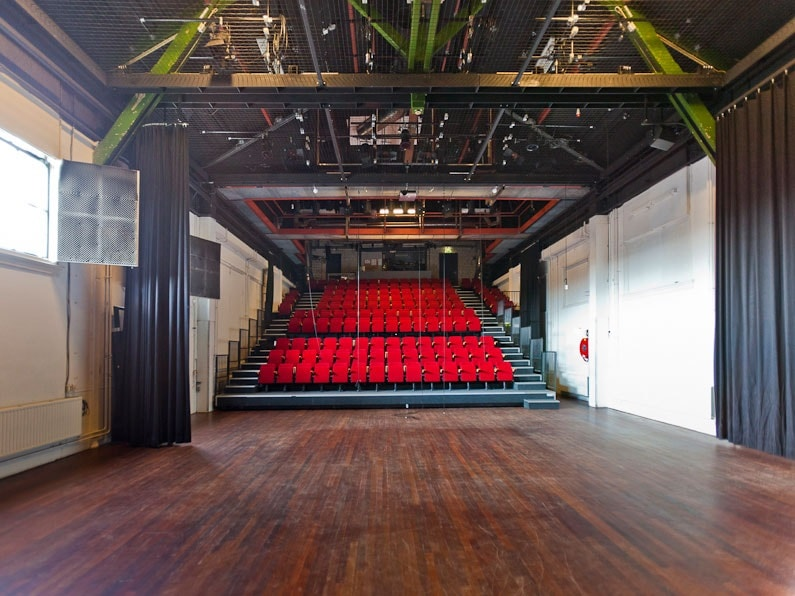
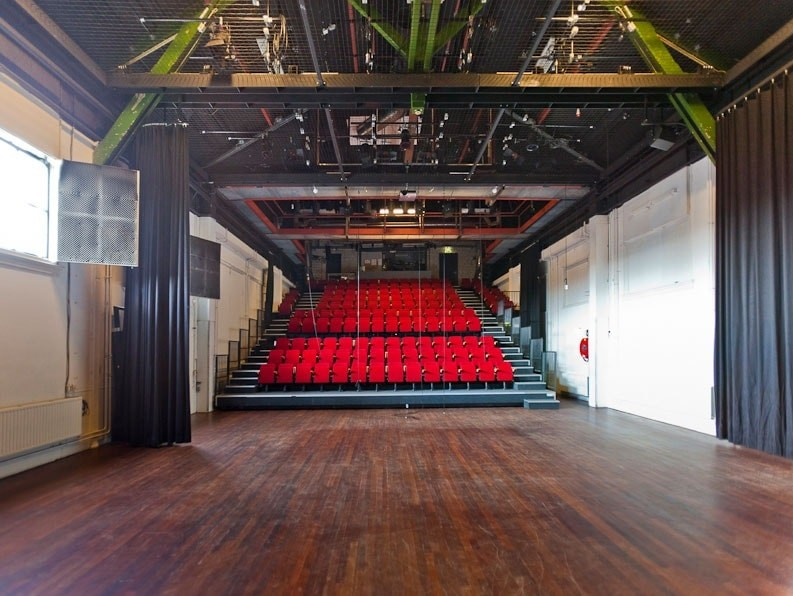
updated transport info and impages sizes

diff --git a/2023/travel-stay.html b/2023/travel-stay.html
@@ -20,8 +20,11 @@
 	<section class="projects-section bg-black" id="projects">
 		<div class="container px-4 px-lg-5" id="p1">
 	<script>
+
+		paragraph('p1', '', 'If you have any questions regarding your travel or stay, please contact Emma Rasing via <a href="mailto:er@creativecodingutrecht.nl">er@creativecodingutrecht.nl</a>');
+
 		// add a paragraph with arguments: section-id, header, text
-		paragraphImageRight('p1', 'Getting Here',
+		paragraphImageLeft('p1', 'Getting Here',
 		`We recommend all visitors (especially from within Europe) to travel by train as much as possible to reduce your environmental impact.
 		<br><br>
 		Utrecht is well connected by train to all of the major cities and airports in the Netherlands like Schiphol Airport (30min), Eindhoven Airport (1h30), Amsterdam (30min), Rotterdam (40min) and The Hague (40min).
@@ -30,14 +33,44 @@
 		<br><br>
 		From Utrecht it is also possible to take the international trains such as the ICE train towards Germany, Belgium, Switzerland and Austria`, `assets/img/utrecht-station.jpg`);
 
-		paragraphImageLeft('p1', 'Getting Around During the Conference', `All the locations of the festival are located within a walking distance of about 40 minutes.
+		paragraphImageRight('p1', 'Getting Around During the Conference', `All the locations of the festival are located within a walking distance of about 40 minutes.
 		<br><br>
 		It is also possible to get around by bus, tram or train between the locations. We recommend using the <a href="https://9292.nl/">9292 App</a> to plan any travel with public transport with Utrecht.
 		<br><br>
 		In the case the weather is nice we of course recommend renting a bike and cycling through the city.
 		<br><br>
+		(Photo © ANP)`, `assets/img/fiets.jpg`);
+
+		paragraphImageLeft('p1', 'Public Transport', `
+		You can pay for public transport in 2 different ways:
+		<br><br>
+		- By using your contactless debit card, credit card, or phone. More information about this system can be found on the website of OVpay. <a href="https://ovpay.nl/en" target="blank">https://ovpay.nl/en</a>
+		<br><br>
+		- By using an OV-chipkaart. More information about OV-chipkaart can be found on their website <a href="https://www.ov-chipkaart.nl/en" target="blank">https://www.ov-chipkaart.nl/en</a> Note: you will need a minimum amount available on your card to be able to travel (€4 for buses/trams/metros and €20 for trains).
+		<br><br>
+		Just remember to always check in and out with your payment method of choice.
+		<br><br>
+		(Photo © www.famouscampaigns.com)
+		`, `assets/img/bus.jpg`);
+
+		paragraphImageRight('p1', 'Bike', `
+		To immerse yourself into the Dutch culture, we recommend you enjoy Utrecht by bike. There are several rental services available where you can rent a bike to get around. Note: it is often possible to rent a bike at your hostel/hotel. It might be more convenient to choose this option if this service is available.
+		<br><br>
+		- Laag Catharijne <a href="https://en.laagcatharijne.nl/" target="blank">https://en.laagcatharijne.nl/</a>
+		Starts at €8.50 per day.
+		<br><br>
+		- Black Bikes <a href="https://black-bikes.com/bike-rental-locations/utrecht/" target="blank">https://black-bikes.com/bike-rental-locations/utrecht/</a> 
+		<br><br>
 		(Photo © ANP)
-		`, `assets/img/fiets.jpg`);
+		Starts at €9.50 per day.`, `assets/img/fiets-2.jpg`);
+
+		paragraphImageLeft('p1', 'Food & Drinks', `
+		Utrecht offers a lot of restaurants that we can’t wait for you to try out! We have put together a list of our favourites. When curating our list, we included restaurants that are catered to all sorts of dietary preferences (e.g., vegan and vegetarian).
+		<br><br>
+		<a href="">See the list here</a>
+		<br><br>
+		(Photy by esparu-art.com)
+		`, 'assets/img/utrecht-3.jpg');
 		
 		paragraphImageRight('p1', 'Accommodation',
 		`The city center of Utrecht has different Hotels and Hostels in various price ranges. We have selected a variety of accommodations in different price categories. The price indications are based on 1 night for 2 persons.`, `assets/img/utrecht-2.jpg`);

diff --git a/2023/food.html b/2023/food.html
@@ -1,0 +1,40 @@
+<!DOCTYPE html>
+<html lang="en">
+<head>
+	<meta charset="utf-8" />
+	<meta name="viewport" content="width=device-width, initial-scale=1, shrink-to-fit=no" />
+	<link href="https://fonts.googleapis.com/css2?family=Exo:ital,wght@0,400;0,500;0,700;1,400;1,700&amp;display=swap" rel="stylesheet">
+	<!-- Font Awesome icons (free version)-->
+	<script src="https://use.fontawesome.com/releases/v6.1.0/js/all.js" crossorigin="anonymous"></script>
+	<!-- Core theme CSS (includes Bootstrap)-->
+	<link href="css/styles.css" rel="stylesheet" />
+
+	<title>Restaurants</title>
+</head>
+<body id="page-top">
+	<!-- Generate the main menu bar -->
+	<script src="./js/scripts-extension.js"></script>
+	<script>makeMenu();</script>
+
+	<!-- Page contents here -->
+	<section class="projects-section bg-black" id="projects">
+		<div class="container px-4 px-lg-5" id="p1">
+	<script>
+		// add a paragraph with arguments: section-id, header, text
+	</script>
+		</div>
+	</section>
+
+		<!-- Generate contacs and copyright footer -->
+	<script>
+		socials();
+		footer();
+	</script>
+
+	<!-- Bootstrap core JS-->
+	<script src="https://cdn.jsdelivr.net/npm/bootstrap@5.1.3/dist/js/bootstrap.bundle.min.js"></script>
+	<!-- Core theme JS-->
+	<script src="js/scripts.js"></script>
+	<script src="https://cdn.startbootstrap.com/sb-forms-latest.js"></script>
+</body>
+</html>
